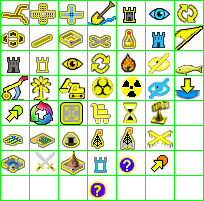
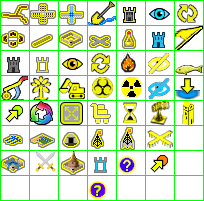
Client support for Watchtower base type

Changed region(s): [[0.8824, 0.4776, 0.9706, 0.6269]]

diff --git a/freeciv-web/src/main/webapp/javascript/control.js b/freeciv-web/src/main/webapp/javascript/control.js
@@ -1527,6 +1527,7 @@ function update_unit_order_commands()
   $("#order_quay").hide();
   $("#order_canal").hide();
   $("#order_well").hide();
+  $("#order_watchtower").hide();
   $("#order_fort").hide();
   $("#order_fortress").hide();
   $("#order_castle").hide();
@@ -1637,7 +1638,7 @@ function update_unit_order_commands()
     ptype = unit_type(punit);
     var worker_type = false; // Handles civ2civ3 + mp2: these units have same orders as workers (join city already handled above):
     var infra_type = false;
-    if (ptype['name'] == "Workers" || ptype['name'] == "Migrants"
+    if (ptype['name'] == "Workers" || (ptype['name'] == "Migrants" && !client_rules_flag[CRF_MP2])
       || (ptype['name'] == "Tribesmen" && client_rules_flag[CRF_MP2_C])
       || (ptype['name'] == "Trawler")
       || (ptype['name'] =="Proletarians" && governments[client.conn.playing['government']]['name']=="Communism")) {
@@ -1664,6 +1665,7 @@ function update_unit_order_commands()
     // Each variable-grouping would become a single array indexed by base type.
     /* Whether Ruleset has Base*/
     const HIDEOUTS      = (typeof EXTRA_ !== 'undefined') && client_rules_flag[CRF_EXTRA_HIDEOUT] && server_settings['hideouts']['val'];
+    const WATCHTOWERS   = (typeof EXTRA_WATCHTOWER !== 'undefined') && client_rules_flag[CRF_EXTRA_WATCHTOWER]
     const FORTS         = (typeof EXTRA_FORT !== 'undefined');
     const FORTRESSES    = (typeof EXTRA_FORTRESS !== 'undefined');
     const NAVALBASES    = (typeof EXTRA_NAVALBASE !== 'undefined');
@@ -1678,6 +1680,7 @@ function update_unit_order_commands()
     const DEEPDIVE      = (typeof EXTRA_DEEPDIVE !== 'undefined');
     /* Whether player has tech for the Base. */
     const HIDEOUT_TECH   = tech_known("Warrior Code");
+    const WATCHTOWER_TECH= WATCHTOWERS && tech_known("Masonry") && client_rules_flag[CRF_EXTRA_WATCHTOWER];
     const FORT_TECH      = tech_known("Construction") || (tech_known("Masonry") && client_rules_flag[CRF_MASONRY_FORT]);
     const FORTRESS_TECH  = tech_known("Construction");
     const NAVALBASE_TECH = tech_known("Engineering");
@@ -1689,6 +1692,7 @@ function update_unit_order_commands()
     const RADAR_TECH     = tech_known("Radar");
     /* Whether the tile has pre-existing bases, which may be reqs or blockers for other bases to be built. */
     const TILE_HAS_HIDEOUT   = HIDEOUTS   && tile_has_extra(ptile,EXTRA_);
+    const TILE_HAS_WATCHTOWER= WATCHTOWERS&& tile_has_extra(ptile,EXTRA_WATCHTOWER);  
     const TILE_HAS_FORT      = FORTS      && tile_has_extra(ptile,EXTRA_FORT);
     const TILE_HAS_FORTRESS  = FORTRESSES && tile_has_extra(ptile,EXTRA_FORTRESS);
     const TILE_HAS_NAVALBASE = NAVALBASES && tile_has_extra(ptile,EXTRA_NAVALBASE);
@@ -1721,18 +1725,21 @@ function update_unit_order_commands()
     const CAN_TILE_BUOY      = !pcity &&  oceanic && BUOYS      && !TILE_HAS_BUOY && !(TILE_HAS_RIVER && NO_RIVER_BASE);
     const CAN_TILE_FISHTRAP  = !pcity &&  oceanic && FISHTRAPS  && !TILE_HAS_FISHTRAP // this is only a 'half true' qualifier for tile can do fishtrap: further checks done later below
     const CAN_TILE_RADAR     = !pcity && !oceanic && RADAR      && !TILE_HAS_RADAR && TILE_HAS_AIRBASE && !(TILE_HAS_RIVER && NO_RIVER_BASE);
+    const CAN_TILE_WATCHTOWER= !pcity && !oceanic && WATCHTOWERS&& !TILE_HAS_WATCHTOWER && !TILE_HAS_BUNKER && !TILE_HAS_CASTLE && !TILE_HAS_RADAR && !TILE_HAS_HIDEOUT
     const CAN_TILE_DEEPDIVE  = terrain_name == "Deep Ocean" && !TILE_HAS_DEEPDIVE && !TILE_HAS_BUOY && !TILE_HAS_FISHTRAP; 
     /* Currently iterating unit is able to build bases on this tile? */
-    const UNIT_CAN_HIDEOUT   = CAN_TILE_HIDEOUT   && HIDEOUT_TECH   && utype_has_flag(ptype,UTYF_FOOTSOLDIER);
-    const UNIT_CAN_FORT      = CAN_TILE_FORT      && FORT_TECH      && (worker_type || infra_type || (ptype['name'] == "Legion" && client_rules_flag[CRF_LEGION_WORK]) || (ptype['name'] == "Marines" && client_rules_flag[CRF_MARINE_BASES])) && ptype['name'] != "Trawler";
-    const UNIT_CAN_FORTRESS  = CAN_TILE_FORTRESS  && FORTRESS_TECH  && (worker_type || infra_type || (ptype['name'] == "Legion" && client_rules_flag[CRF_LEGION_WORK])) && ptype['name'] != "Trawler";
-    const UNIT_CAN_NAVALBASE = CAN_TILE_NAVALBASE && NAVALBASE_TECH && (worker_type || infra_type || (ptype['name'] == "Legion" && client_rules_flag[CRF_LEGION_WORK])) && can_build_naval_base(punit,ptile);
-    const UNIT_CAN_CASTLE    = CAN_TILE_CASTLE    && CASTLE_TECH    && (worker_type || infra_type);
-    const UNIT_CAN_BUNKER    = CAN_TILE_BUNKER    && BUNKER_TECH    && (worker_type || infra_type);
-    const UNIT_CAN_AIRBASE   = CAN_TILE_AIRBASE   && AIRBASE_TECH   && (worker_type || infra_type || (ptype['name'] == "Marines" && client_rules_flag[CRF_MARINE_BASES])) && ptype['name'] != "Settlers";
-    const UNIT_CAN_BUOY      = CAN_TILE_BUOY      && BUOY_TECH      && (worker_type || infra_type) && ptype['name'] != "Settlers";
-    const UNIT_CAN_FISHTRAP  = CAN_TILE_FISHTRAP  && FISHTRAP_TECH  && (worker_type || infra_type);
-    const UNIT_CAN_RADAR     = CAN_TILE_RADAR     && RADAR_TECH     && (worker_type || infra_type) && ptype['name'] != "Settlers";
+    const NOT_TRIBESMEN      = ptype['name'] != "Tribesmen"
+    const UNIT_CAN_HIDEOUT   = CAN_TILE_HIDEOUT   && HIDEOUT_TECH   && NOT_TRIBESMEN && utype_has_flag(ptype,UTYF_FOOTSOLDIER);
+    const UNIT_CAN_FORT      = CAN_TILE_FORT      && FORT_TECH      && NOT_TRIBESMEN && (worker_type || infra_type || (ptype['name'] == "Legion" && client_rules_flag[CRF_LEGION_WORK]) || (ptype['name'] == "Marines" && client_rules_flag[CRF_MARINE_BASES])) && ptype['name'] != "Trawler";
+    const UNIT_CAN_FORTRESS  = CAN_TILE_FORTRESS  && FORTRESS_TECH  && NOT_TRIBESMEN && (worker_type || infra_type || (ptype['name'] == "Legion" && client_rules_flag[CRF_LEGION_WORK])) && ptype['name'] != "Trawler";
+    const UNIT_CAN_NAVALBASE = CAN_TILE_NAVALBASE && NAVALBASE_TECH && NOT_TRIBESMEN && (worker_type || infra_type || (ptype['name'] == "Legion" && client_rules_flag[CRF_LEGION_WORK])) && can_build_naval_base(punit,ptile);
+    const UNIT_CAN_CASTLE    = CAN_TILE_CASTLE    && CASTLE_TECH    && NOT_TRIBESMEN && (worker_type || infra_type);
+    const UNIT_CAN_BUNKER    = CAN_TILE_BUNKER    && BUNKER_TECH    && NOT_TRIBESMEN && (worker_type || infra_type);
+    const UNIT_CAN_AIRBASE   = CAN_TILE_AIRBASE   && AIRBASE_TECH   && NOT_TRIBESMEN && (worker_type || infra_type || (ptype['name'] == "Marines" && client_rules_flag[CRF_MARINE_BASES])) && ptype['name'] != "Settlers";
+    const UNIT_CAN_BUOY      = CAN_TILE_BUOY      && BUOY_TECH      && NOT_TRIBESMEN && (worker_type || infra_type) && ptype['name'] != "Settlers";
+    const UNIT_CAN_FISHTRAP  = CAN_TILE_FISHTRAP  && FISHTRAP_TECH  && NOT_TRIBESMEN && (worker_type || infra_type);
+    const UNIT_CAN_RADAR     = CAN_TILE_RADAR     && RADAR_TECH     && NOT_TRIBESMEN && (worker_type || infra_type) && ptype['name'] != "Settlers";
+    const UNIT_CAN_WATCHTOWER= CAN_TILE_WATCHTOWER&& WATCHTOWER_TECH&& NOT_TRIBESMEN && (worker_type || infra_type || (ptype['name'] == "Legion" && client_rules_flag[CRF_LEGION_WORK]) || (ptype['name'] == "Marines" && client_rules_flag[CRF_MARINE_BASES])) && !(UNIT_CAN_RADAR || UNIT_CAN_AIRBASE) && ptype['name'] != "Trawler";
     const UNIT_CAN_DEEPDIVE  = CAN_TILE_DEEPDIVE && ptype['name'] == "Missile Submarine";
     // ******************************************************************************************************************* </END Base Logic setup> ***
     if (UNIT_CAN_HIDEOUT) {
@@ -1778,10 +1785,13 @@ function update_unit_order_commands()
       if (worker_type || infra_type) { 
         if (show_order_buttons==2) $("#order_airbase").show(); // Uncommon order for infra units.
       } else $("#order_airbase").show(); // Marines always want to see it.
-    }
-    if (UNIT_CAN_RADAR) {
+    } else if (UNIT_CAN_RADAR) {
       unit_actions["airbase"] = {name: "Build Radar (shift-E)"};
+      $("#order_watchtower").hide();
       $("#order_radar").show();
+    } else if (UNIT_CAN_WATCHTOWER) {
+      unit_actions["watchtower"] = {name: "Build Watchtower (shift-E)"};
+      $("#order_watchtower").show();
     }
     // ********************************************************************** </END Base Building> ***
 
@@ -4407,6 +4417,10 @@ function handle_context_menu_callback(key)
       key_unit_hideout();
       break;
 
+    case "watchtower":
+      key_unit_airbase();
+      break;
+
     case "navalbase":
       key_unit_naval_base();
       break;
@@ -5740,7 +5754,8 @@ function key_unit_dive()
 **************************************************************************/
 function key_unit_airbase()
 {
-  var radar_rules = client_rules_flag[CRF_RADAR_TOWER];
+  const radar_rules = client_rules_flag[CRF_RADAR_TOWER];
+  const tower_rules = client_rules_flag[CRF_EXTRA_WATCHTOWER];
   var activity = EXTRA_AIRBASE;
 
   var funits = get_units_in_focus();
@@ -5757,8 +5772,11 @@ function key_unit_airbase()
       }
     }
 
-    activity = EXTRA_AIRBASE;
-    if (radar_rules && tile_has_extra(ptile, EXTRA_AIRBASE)) activity=EXTRA_RADAR;
+    if (tile_has_extra(ptile, EXTRA_AIRBASE)) {
+      if (radar_rules && tile_has_extra(ptile, EXTRA_AIRBASE)) activity=EXTRA_RADAR;
+      else if (tower_rules && tech_known("Masonry")) activity = EXTRA_WATCHTOWER;
+    }
+    else if (tower_rules && !tech_known("Radio") && tech_known("Masonry")) activity = EXTRA_WATCHTOWER;
 
     request_new_unit_activity(punit, ACTIVITY_BASE, activity);
     // Focused unit got orders, make sure not on waiting_list now:

diff --git a/freeciv-web/src/main/webapp/javascript/packhand.js b/freeciv-web/src/main/webapp/javascript/packhand.js
@@ -1116,6 +1116,7 @@ function handle_ruleset_control(packet)
   switch (ruleset_control['name']) {
     case "MP2 Elephant":
       client_rules_flag[CRF_MP2_E] = true;
+      client_rules_flag[CRF_EXTRA_WATCHTOWER] = true;
     case "MP2 Dragoon":
       client_rules_flag[CRF_MP2_D] = true;
     case "MP2 Caravel":
@@ -1174,11 +1175,12 @@ function handle_ruleset_control(packet)
     else if (ename == "Minor Tribe Village") delete window["EXTRA_HUT"];
     else if (typeof EXTRA_SEABRIDGE !== 'undefined' && ename == "Sea Bridge") delete window["EXTRA_SEABRIDGE"];
     else if (typeof EXTRA_FORT !== 'undefined' && ename == "Fort") delete window["EXTRA_FORT"]; 
-    else if (typeof EXTRA_NAVALBASE !== 'undefined' && ename =="Naval Base") delete window["EXTRA_NAVALBASE"];
-    else if (typeof EXTRA_CASTLE !== 'undefined' && ename =="Castle") delete window["EXTRA_CASTLE"];
-    else if (typeof EXTRA_BUNKER !== 'undefined' && ename =="Bunker") delete window["EXTRA_BUNKER"];
-    else if (typeof EXTRA_TILE_CLAIM !== 'undefined' && ename =="Tile Claim") delete window["EXTRA_TILE_CLAIM"];
-    else if (typeof EXTRA_WALLS !== 'undefined' && ename =="Walls") delete window["EXTRA_WALLS"];
+    else if (typeof EXTRA_NAVALBASE !== 'undefined' && ename == "Naval Base") delete window["EXTRA_NAVALBASE"];
+    else if (typeof EXTRA_CASTLE !== 'undefined' && ename == "Castle") delete window["EXTRA_CASTLE"];
+    else if (typeof EXTRA_BUNKER !== 'undefined' && ename == "Bunker") delete window["EXTRA_BUNKER"];
+    else if (typeof EXTRA_TILE_CLAIM !== 'undefined' && ename == "Tile Claim") delete window["EXTRA_TILE_CLAIM"];
+    else if (typeof EXTRA_WALLS !== 'undefined' && ename == "Walls") delete window["EXTRA_WALLS"];
+    else if (typeof EXTRA_WATCHTOWER !== 'undefned' && ename == "Watchtower") delete window["EXTRA_WATCHTOWER"];
     else if (extras[extra].rule_name == "Depth") {
       delete window["EXTRA_"]
     }
@@ -2507,6 +2509,7 @@ function handle_ruleset_extra(packet)
   if (packet['name'] == "Bunker") window["EXTRA_BUNKER"] = packet['id'];
   if (packet['name'] == "Tile Claim") window["EXTRA_TILE_CLAIM"] = packet['id'];
   if (packet['name'] == "Walls") window["EXTRA_WALLS"] = packet['id'];
+  if (packet['name'] == "Watchtower") window["EXTRA_WATCHTOWER"] = packet['id'];
   if (packet['rule_name'] == "Depth") window["EXTRA_DEEPDIVE"] = packet['id'];
 }
 

diff --git a/freeciv-web/src/main/webapp/javascript/options.js b/freeciv-web/src/main/webapp/javascript/options.js
@@ -67,13 +67,14 @@ const CRF_COLOSSUS_DISCOUNT        = 27;
 const CRF_SPECIAL_UNIT_ATTACKS     = 28; // complex special one-way engagements enabled, mp2-caravel onward.
 const CRF_NO_BASES_ON_RIVERS       = 29;
 const CRF_2X_MOVES                 = 30;
-const CRF_MP2                      = 31; // rules flags for "minimum" mp2 ruleset, for when new feature came in.
-const CRF_MP2_A                    = 32; 
-const CRF_MP2_B                    = 33;
-const CRF_MP2_C                    = 34;
-const CRF_MP2_D                    = 35;
-const CRF_MP2_E                    = 36;
-const CRF_LAST                     = 37;
+const CRF_EXTRA_WATCHTOWER         = 31;
+const CRF_MP2                      = 32; // rules flags for "minimum" mp2 ruleset, for when new feature came in.
+const CRF_MP2_A                    = 33; 
+const CRF_MP2_B                    = 34;
+const CRF_MP2_C                    = 35;
+const CRF_MP2_D                    = 36;
+const CRF_MP2_E                    = 37;
+const CRF_LAST                     = 38;
 
 var graphic_theme_path;
 

diff --git a/freeciv-web/src/main/webapp/javascript/action_dialog.js b/freeciv-web/src/main/webapp/javascript/action_dialog.js
@@ -103,6 +103,7 @@ var action_images = {
   "Sea Bridge": "orders/seabridge",
   "River": "orders/well",
   "Tile Claim": "nation_tab_icon",
+  "Watchtower": "orders/watchtower",
   "Fort": "orders/fort",
   "Fortress": "orders/fortress",
   "Fishtrap": "orders/fishtrap",
@@ -1761,7 +1762,7 @@ function select_tgt_extra(actor_unit, target_unit,
                                                     tgt_extra['id']);
     if (the_button != null) {
       the_button['class'] = 'act_sel_button';
-      the_button['height'] = '33.33px';
+      the_button['height'] = '31px';
 
       buttons.push(the_button);
       /* sort_order.push(i); 

diff --git a/freeciv-web/src/main/webapp/javascript/2dcanvas/tilespec.js b/freeciv-web/src/main/webapp/javascript/2dcanvas/tilespec.js
@@ -2396,6 +2396,10 @@ function fill_layer2_sprite_array(ptile, pcity)
                             "offset_y" : -normal_tile_height / 2});
       }
     }
+    if (typeof EXTRA_WATCHTOWER !== 'undefined' && tile_has_extra(ptile, EXTRA_WATCHTOWER)) {
+      result_sprites.push({"key" : "base.tower_mg",
+                           "offset_y" : -normal_tile_height / 2});
+    }
   }
 
   return result_sprites;

diff --git a/freeciv-web/src/main/webapp/javascript/tile.js b/freeciv-web/src/main/webapp/javascript/tile.js
@@ -151,6 +151,8 @@ function does_tile_have_base(ptile)
     return true;
   if (typeof EXTRA_TILE_CLAIM !== "undefined" && tile_has_extra(ptile, EXTRA_TILE_CLAIM))
     return true;
+  if (typeof EXTRA_WATCHTOWER !== "undefined" && tile_has_extra(ptile, EXTRA_WATCHTOWER))
+    return true;
   if (typeof EXTRA_ !== "undefined" && tile_has_extra(ptile, EXTRA_))  // hideout
     return true;
     
